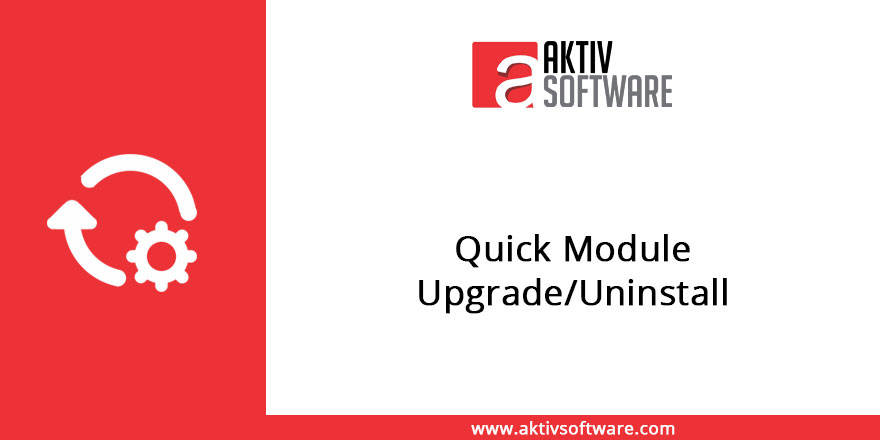
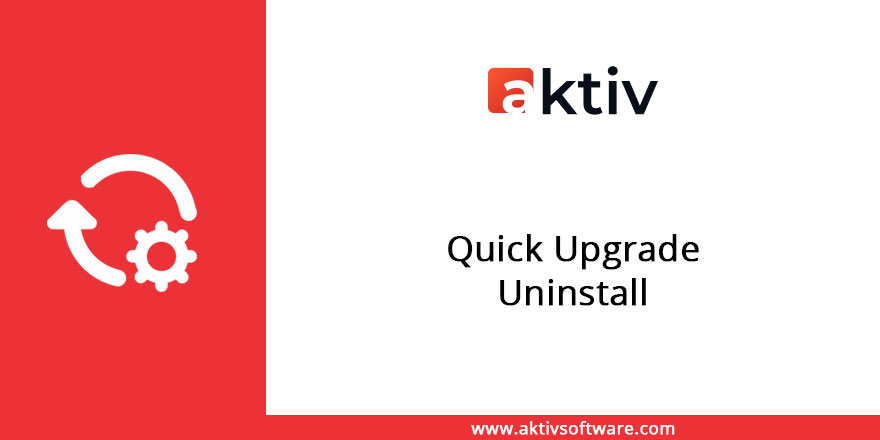
[ADD] change image in 10.0

Changed region(s): [[0.4602, 0.5318, 0.8284, 0.7091], [0.5216, 0.0886, 0.767, 0.2659]]

diff --git a/quick_module_upgrade_uninstall/static/description/index.html b/quick_module_upgrade_uninstall/static/description/index.html
@@ -39,7 +39,7 @@
     <div class="oe_row oe_spaced">
         <h2 class="oe_slogan">
             <a href="http://aktivsoftware.com/" target="new">
-                <img src="http://aktivsoftware.com/wp-content/uploads/2018/01/logo-1.png"/>
+                <img src="aktiv-logo.png"/>
             </a>
             <br/>
             <a href="mailto:sales@aktivsoftware.com" style="color: #000000 !important;">
